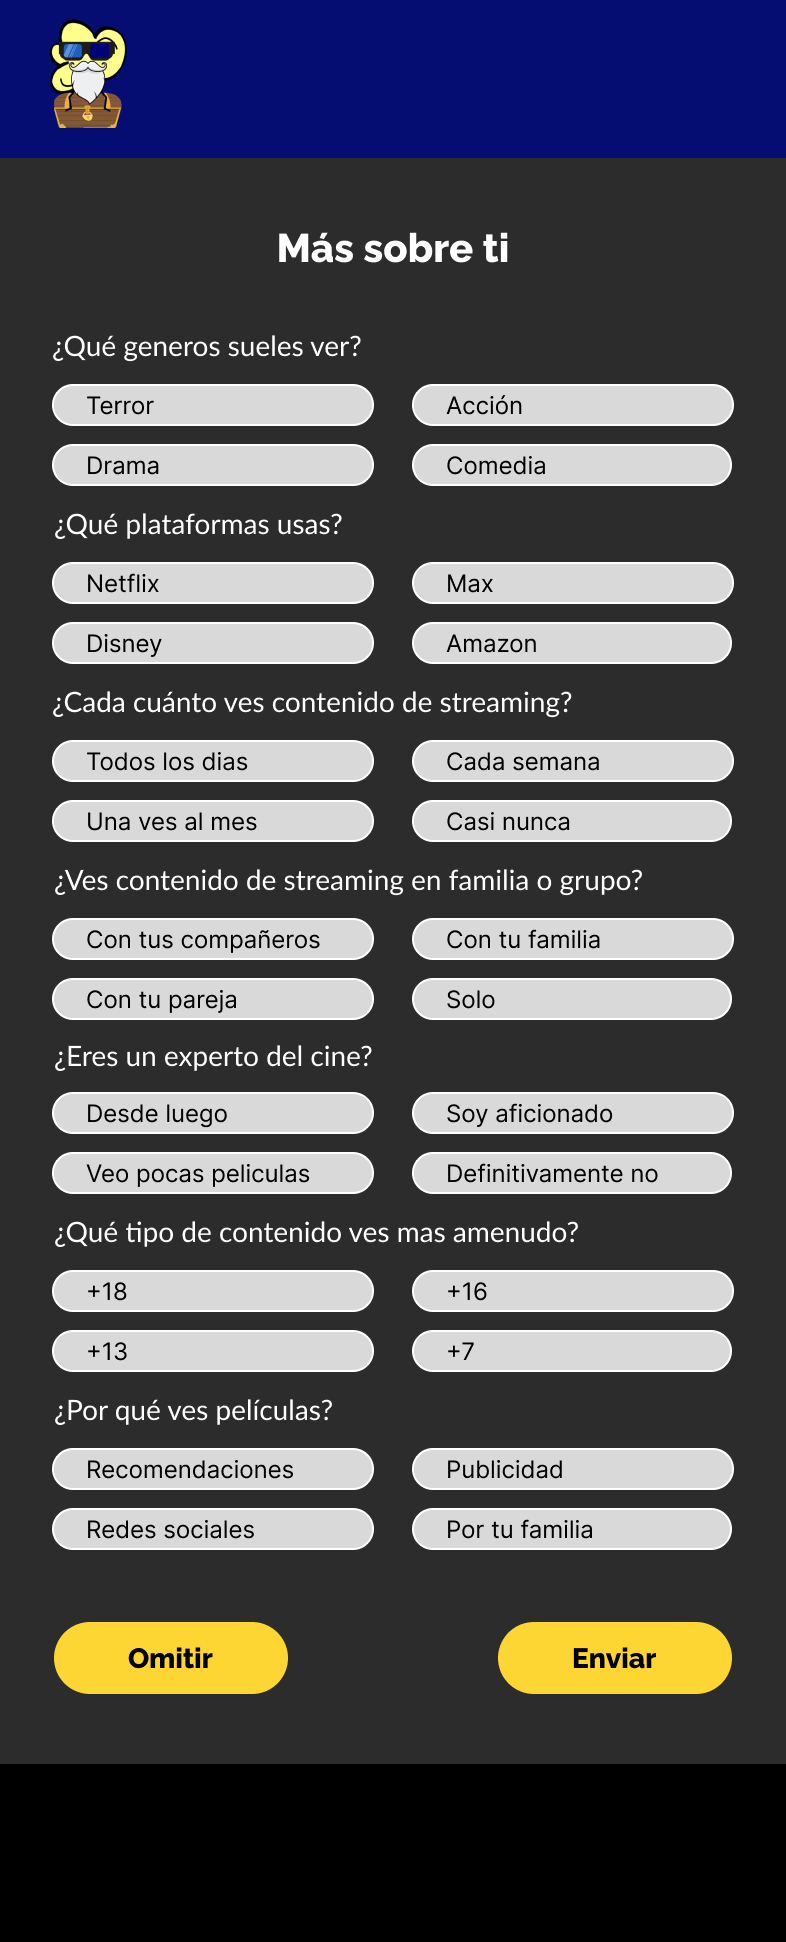
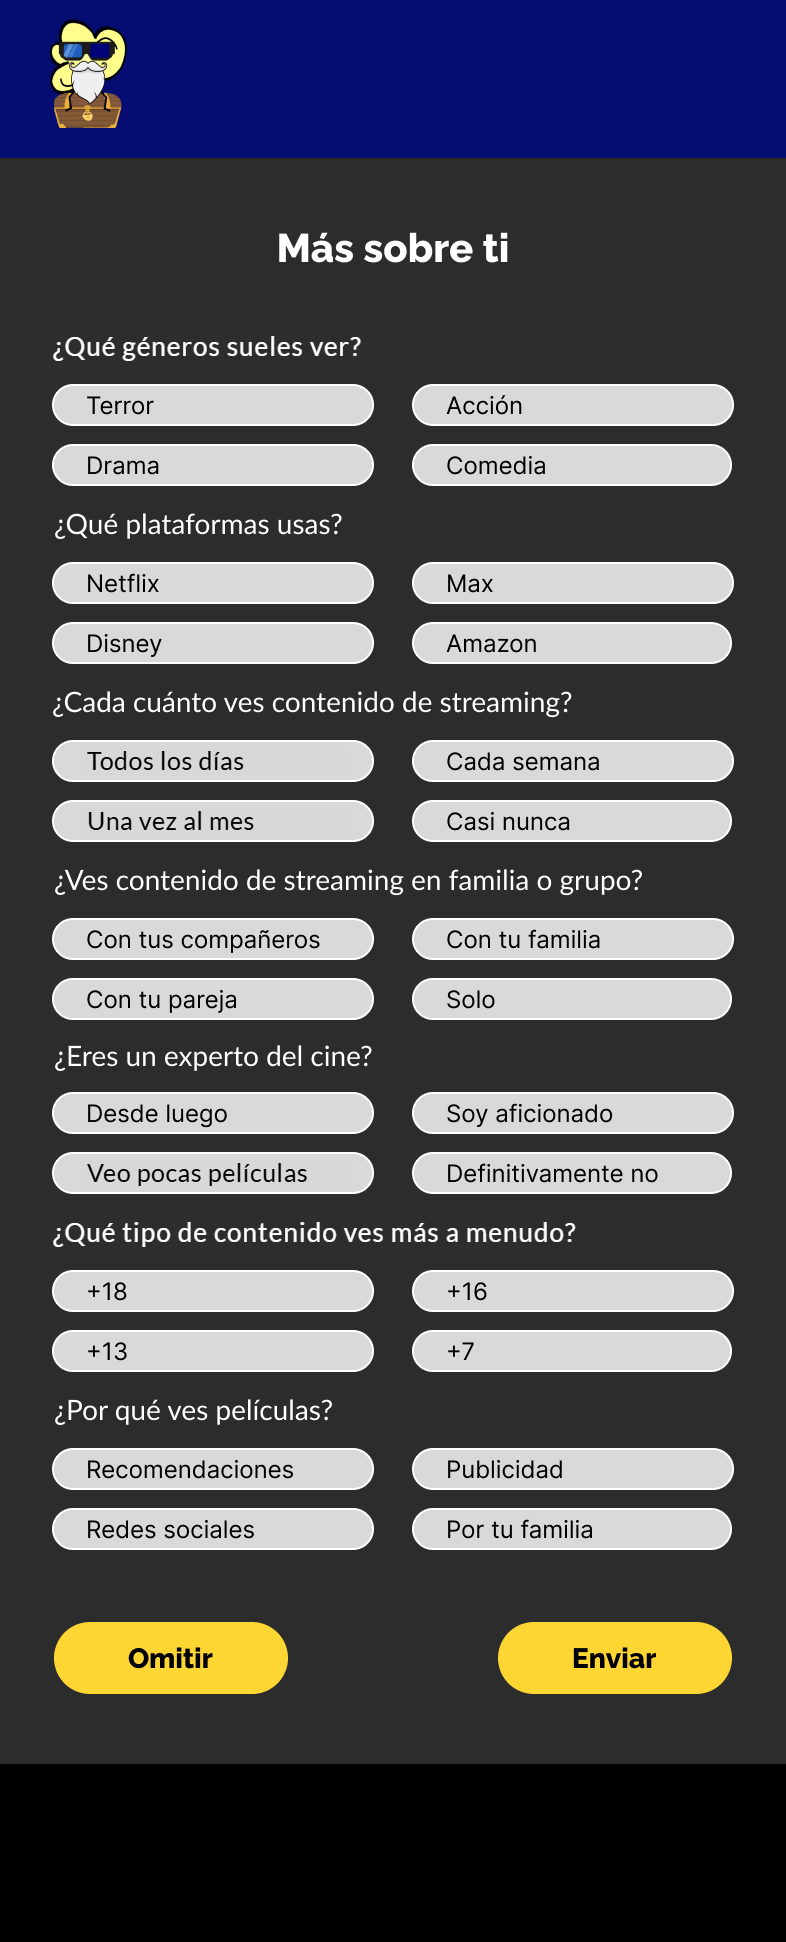
Encuesta de SmartFix sin faltas y partida real del juego de memoria como imagen

diff --git a/style.css b/style.css
@@ -312,6 +312,12 @@ h3 {
     mask-image: linear-gradient(#000 62%, transparent);
 }
 
+/* A wide capture loses too much with the long fade: only its last strip dissolves */
+.project--wide img {
+    -webkit-mask-image: linear-gradient(#000 82%, transparent);
+    mask-image: linear-gradient(#000 82%, transparent);
+}
+
 .project--render img {
     object-fit: contain;
     border-radius: 0;
